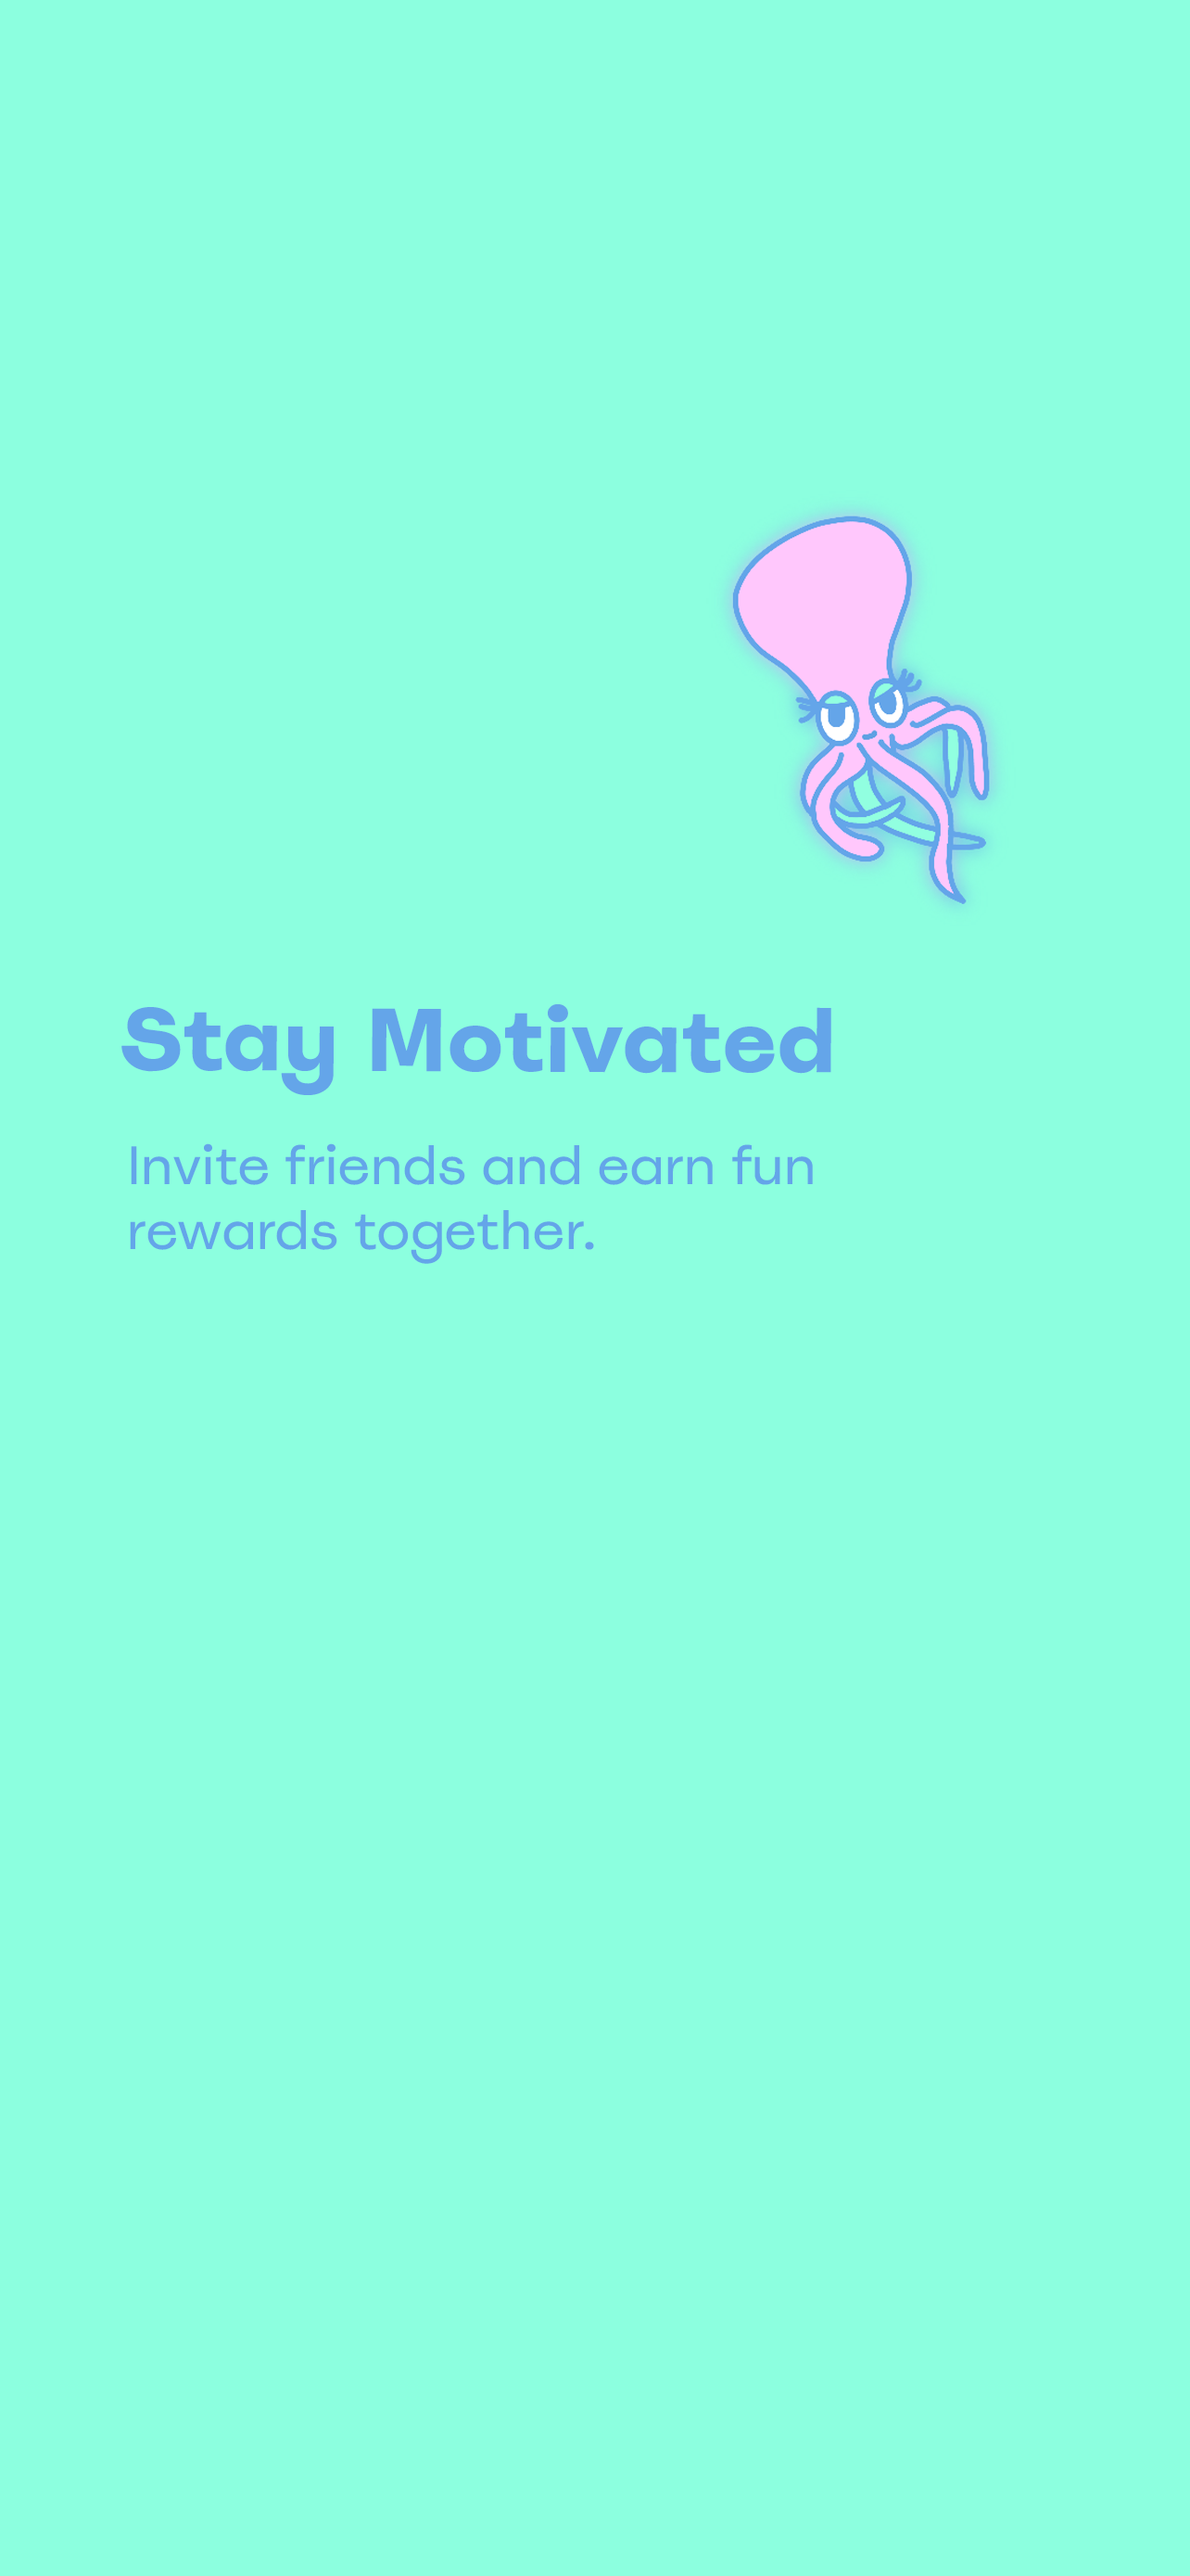
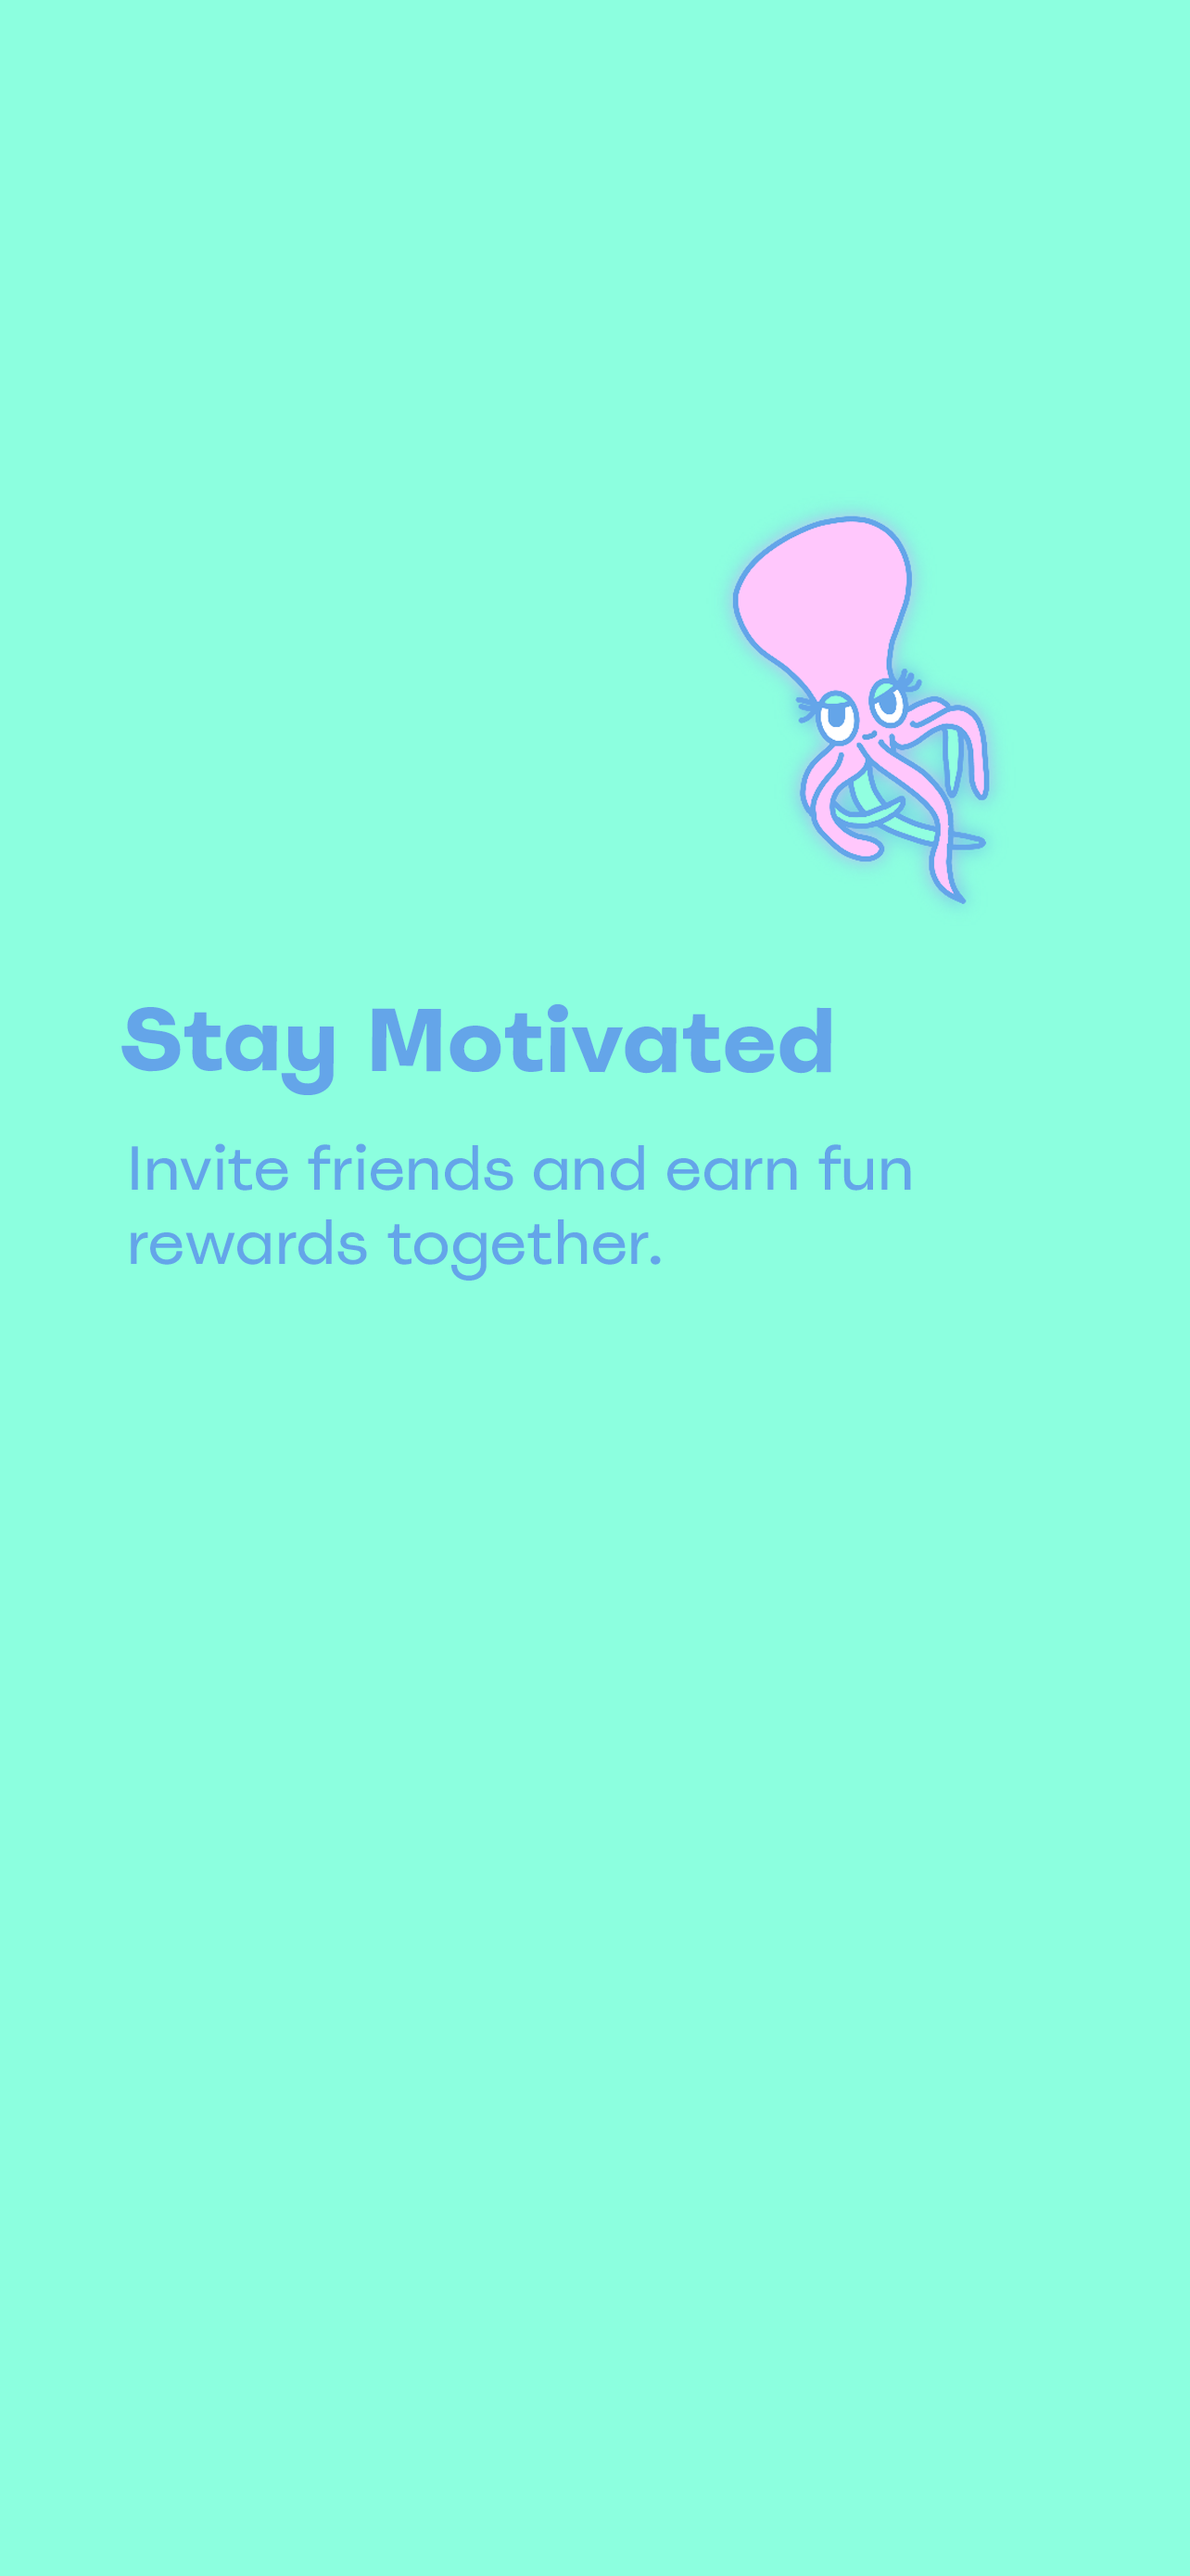
feat: update obarding text to align with accessibilty guidelines

Changed region(s): [[0.0935, 0.4334, 0.7477, 0.4953]]

diff --git a/src/screens/TimerExperiment/TimerExperiment.js b/src/screens/TimerExperiment/TimerExperiment.js
@@ -142,11 +142,7 @@ export default function TimerExperiment() {
   return (
     <SafeAreaView>
       <ScrollView>
-        <View
-          style={styles.topHeader}
-          accessibilityLabel={'Timer View'}
-          accessibilityHint='Clicking me will do nothing'
-          accessibilityRole={'Display timer and picker to select times.'}>
+        <View style={styles.topHeader} accessibilityLabel={'Main screen view'}>
           <View
             style={styles.pointsBox}
             importantForAccessibility='yes'
@@ -185,6 +181,10 @@ export default function TimerExperiment() {
           <Text style={styles.mainTitle}>What are we doing today?</Text>
           <View style={styles.dropdownView} importantForAccessibility='yes'>
             <SelectDropdown
+              accessibilityLabel='Select category dropdown menu'
+              accessibilityHint='Navigates to the next screen to show pie chart'
+              accessibilityRole='dropdown'
+              allowFontScaling={true}
               data={categories}
               defaultButtonText='Choose a category'
               buttonStyle={{
@@ -218,7 +218,7 @@ export default function TimerExperiment() {
           </View>
           <View
             style={styles.countdownView}
-            accessible={true}
+            allowFontScaling={true}
             accessibilityLabel='Countdown View'
             accessibilityHint='Countdown timer for the amount of time left on clock'
             importantForAccessibility='yes'>
@@ -247,34 +247,84 @@ export default function TimerExperiment() {
             </CountdownCircleTimer>
           </View>
         </View>
-        <View
-          style={styles.pickerView}
-          accessible={true}
-          accessibilityLabel='Time Picker View'
-          accessibilityHint='Picker to pick from 10 up to 50 minutes'>
+        <View style={styles.pickerView} accessible={true} allowFontScaling={true}>
           <Picker
+            accessibilityLabel='Time Picker View'
+            accessibilityHint='Picker to pick from 10 seconds up to 50 minutes'
+            accessibilityRole='adjustable'
+            accessibilityLiveRegion='polite'
+            accessibilityState={selectedValue}
             ref={pickerRef}
             selectedValue={selectedValue}
             onValueChange={itemValue => setSelectedValue(itemValue)}
             // style={{ color: '#ffffff', placeholderTextColor: '#fff', fontWeight: '900' }}
-            itemStyle={{ fontSize: 16 }}>
-            {/* <Picker.Item color='white' label='Choose' /> */}
-            <Picker.Item color='#B4FEE7' label='10 seconds' value={10} />
-            <Picker.Item color='#B4FEE7' label='20 minutes' value={1200} />
-            <Picker.Item color='#B4FEE7' label='30 minutes' value={1800} />
-            <Picker.Item color='#B4FEE7' label='40 minutes' value={2400} />
-            <Picker.Item color='#B4FEE7' label='50 minutes' value={3000} />
-            <Picker.Item color='#B4FEE7' label='60 minutes' value={3600} />
+            itemStyle={{ fontSize: 20 }}>
+            <Picker.Item
+              color='#B4FEE7'
+              label='10 seconds'
+              value={10}
+              importantForAccessibility='yes'
+              accessibilityLabel='Time Picker 10 Seconds'
+              accessibilityValue='10 seconds'
+            />
+            <Picker.Item
+              color='#B4FEE7'
+              label='20 minutes'
+              value={1200}
+              importantForAccessibility='yes'
+              accessibilityValue='20 minutes'
+              accessibilityLabel='Time Picker 20 minutes'
+            />
+            <Picker.Item
+              color='#B4FEE7'
+              label='30 minutes'
+              value={1800}
+              importantForAccessibility='yes'
+              accessibilityValue='30 minutes'
+              accessibilityLabel='Time Picker 30 minutes'
+            />
+            <Picker.Item
+              color='#B4FEE7'
+              label='40 minutes'
+              value={2400}
+              importantForAccessibility='yes'
+              accessibilityValue='40 minutes'
+              accessibilityLabel='Time Picker 40 minutes'
+            />
+            <Picker.Item
+              color='#B4FEE7'
+              label='50 minutes'
+              value={3000}
+              importantForAccessibility='yes'
+              accessibilityValue='50 minutes'
+              accessibilityLabel='Time Picker 50 minutes'
+            />
+            <Picker.Item
+              color='#B4FEE7'
+              label='60 minutes'
+              value={3600}
+              importantForAccessibility='yes'
+              accessibilityValue='60 minutes'
+              accessibilityLabel='Time Picker 60 minutes'
+            />
           </Picker>
-          <View style={styles.buttonsView} importantForAccessibility='yes'>
+          <View style={styles.buttonsView} accessibilityHint='Start and pause buttons for timer'>
             <Button
+              accessible={true}
+              accessibilityHint='Navigates to the next screen to show pie chart'
+              accessibilityLabel='Start Button'
+              accessibilityHint='Clicking me will start the timer'
+              accessibilityRole='button'
               buttonStyle={styles.playPauseButtons}
               titleStyle={{ color: '#2d2660' }}
               icon={<FontAwesome name='play' size={16} color='white' />}
-              // title='Start'
               onPress={() => setRunning(true)}
             />
             <Button
+              accessible={true}
+              accessibilityLabel='Pause Button'
+              accessibilityHint='Clicking me will pause the timer'
+              accessibilityRole='button'
               buttonStyle={styles.playPauseButtons}
               titleStyle={{ color: '#2d2660' }}
               icon={<FontAwesome name='pause' size={16} color='white' />}

diff --git a/src/screens/TimerExperiment/styles.js b/src/screens/TimerExperiment/styles.js
@@ -3,39 +3,40 @@ import { StyleSheet } from 'react-native';
 export default StyleSheet.create({
   mainView: {
     flex: 1,
-    flexDirection: 'column',
+    flexDirection: 'column'
     // justifyContent: 'center',
     // alignItems: 'center',
   },
   buttonsView: {
     flexDirection: 'row',
     marginLeft: 'auto',
-    marginRight: 'auto',
+    marginRight: 'auto'
   },
   graphButtonsView: {
-    flexDirection: 'row',
+    flexDirection: 'row'
   },
   dropdownView: {
     justifyContent: 'center',
     alignItems: 'center',
     marginTop: 20,
-    marginBottom: 30,
+    marginBottom: 30
   },
   pickerView: {
     marginTop: -50,
     fontSize: 20,
     marginBottom: -20,
-    flexDirection: 'column',
+    flexDirection: 'column'
   },
   pickerViewText: {
     color: 'white',
     fontWeight: '900',
     marginLeft: 'auto',
     marginRight: 'auto',
+    fontSize: 20
   },
   countdownView: {
     justifyContent: 'center',
-    alignItems: 'center',
+    alignItems: 'center'
     // flexDirection: 'row',
   },
   pointsBox: {
@@ -45,12 +46,12 @@ export default StyleSheet.create({
     borderRadius: 10
   },
   homeButton: {
-    borderRadius: 10,
+    borderRadius: 10
   },
   pointsBoxText: {
     color: 'white',
     fontWeight: 'bold',
-    fontSize: 18,
+    fontSize: 18
   },
   playPauseButtons: {
     borderRadius: 50,
@@ -61,12 +62,12 @@ export default StyleSheet.create({
     borderStyle: 'solid',
     borderColor: '#aedcff',
     width: 60,
-    height: 60,
+    height: 60
     // paddingBottom: -5,
   },
   topHeader: {
     flexDirection: 'row',
-    justifyContent: 'space-between',
+    justifyContent: 'space-between'
   },
   timeLineButton: {
     borderRadius: 50,
@@ -77,7 +78,7 @@ export default StyleSheet.create({
     borderWidth: 2,
     borderColor: '#fff',
     alignItems: 'center',
-    justifyContent: 'center',
+    justifyContent: 'center'
   },
   mainTitle: {
     fontSize: 25,
@@ -87,6 +88,6 @@ export default StyleSheet.create({
     marginBottom: 20,
     marginLeft: 30,
     marginRight: 30,
-    color: '#8cffde',
-  },
+    color: '#8cffde'
+  }
 });

diff --git a/src/screens/GroupsScreen/GroupsScreen.js b/src/screens/GroupsScreen/GroupsScreen.js
@@ -87,7 +87,6 @@ export default function GroupScreen() {
   return (
     <ScrollView>
       <View style={styles.container}>
-        {/* <Text>My Groups</Text> */}
         {/* {
             groupNames.map((name, idx)=> <Button style={{ padding: 10 }} key={idx} title={name} onPress={()=>navigation.navigate('Group', {props:name})} />)
           } */}
@@ -115,6 +114,7 @@ export default function GroupScreen() {
             <View style={styles}>
               <Text style={styles.createGroupSubtitle}>Group name:</Text>
               <TextInput
+                allowFontScaling={true}
                 style={styles.createGroupInput}
                 type='text'
                 placeholder='Type group name'
@@ -126,6 +126,7 @@ export default function GroupScreen() {
               />
               <Text style={styles.createGroupSubtitle}>Invite your friends:</Text>
               <TextInput
+                allowFontScaling={true}
                 style={styles.createGroupInput}
                 color='white'
                 type='text'
@@ -197,12 +198,14 @@ const styles = StyleSheet.create({
     marginBottom: 5,
     marginLeft: 10,
     color: 'white',
-    fontWeight: 'bold'
+    fontWeight: '900'
 
     // marginRight: 'auto',
   },
   createGroupInput: {
     color: 'white',
+    fontWeight: '900',
+    fontSize: 16,
     marginBottom: 20,
     backgroundColor: '#5a5299',
     padding: 15,

diff --git a/src/screens/PieChartScreen/PieChartScreen.js b/src/screens/PieChartScreen/PieChartScreen.js
@@ -51,11 +51,11 @@ function MyPieChart() {
         width={Dimensions.get('window').width - 30}
         height={220}
         chartConfig={{
-          backgroundColor: '#1cc910',
           backgroundGradientFrom: '#eff3ff',
           backgroundGradientTo: '#efefef',
           decimalPlaces: 2,
           color: (opacity = 1) => `rgba(0, 0, 0, ${opacity})`,
+          labelColor: (opacity = 1) => `rgba(255, 255, 255, ${opacity})`,
           style: {
             borderRadius: 10
           }
@@ -63,7 +63,9 @@ function MyPieChart() {
         style={{
           marginVertical: 8,
           borderRadius: 16,
-          fontSize: 16,
+          fontSize: 20,
+          color: 'pink',
+          fontWeight: '900',
           backgroundColor: '#dcfff5',
           height: 280,
           paddingTop: 50,
